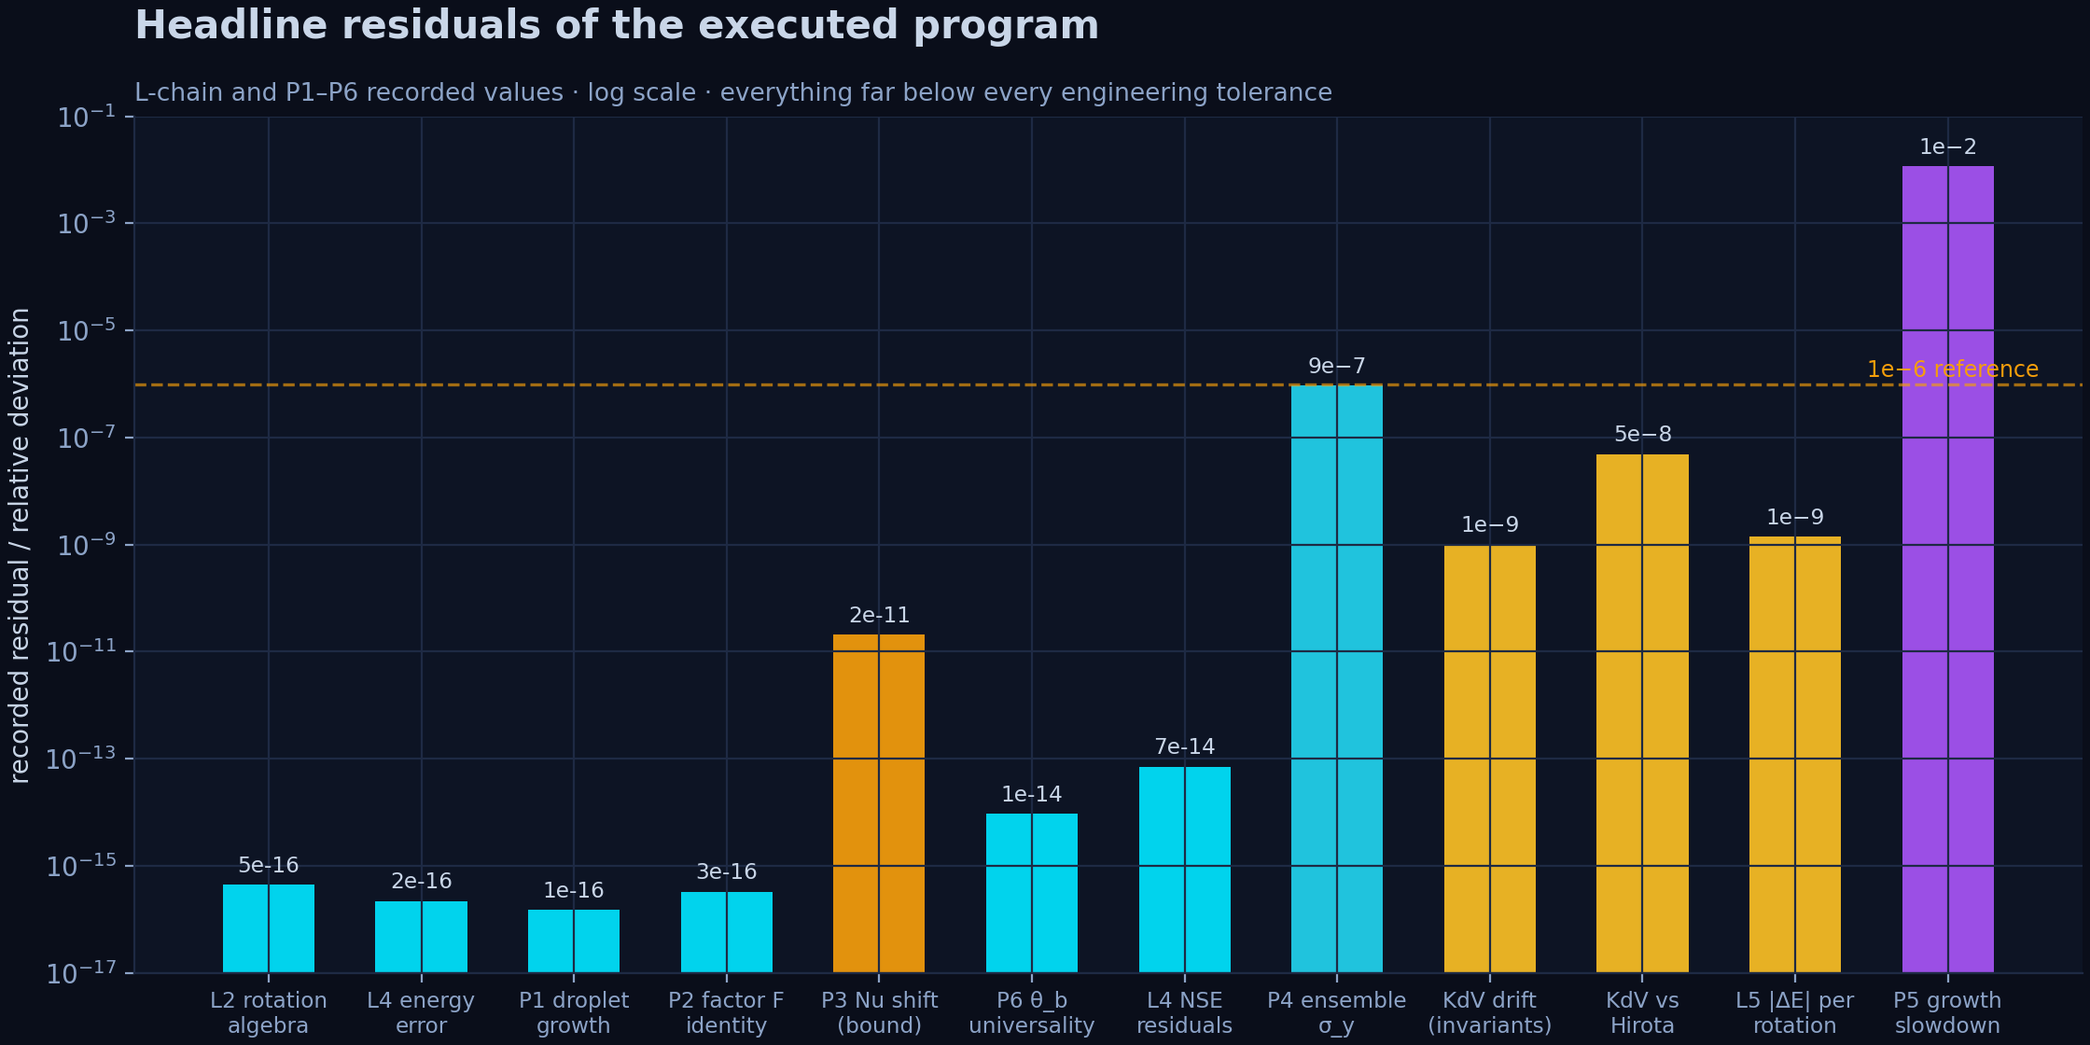
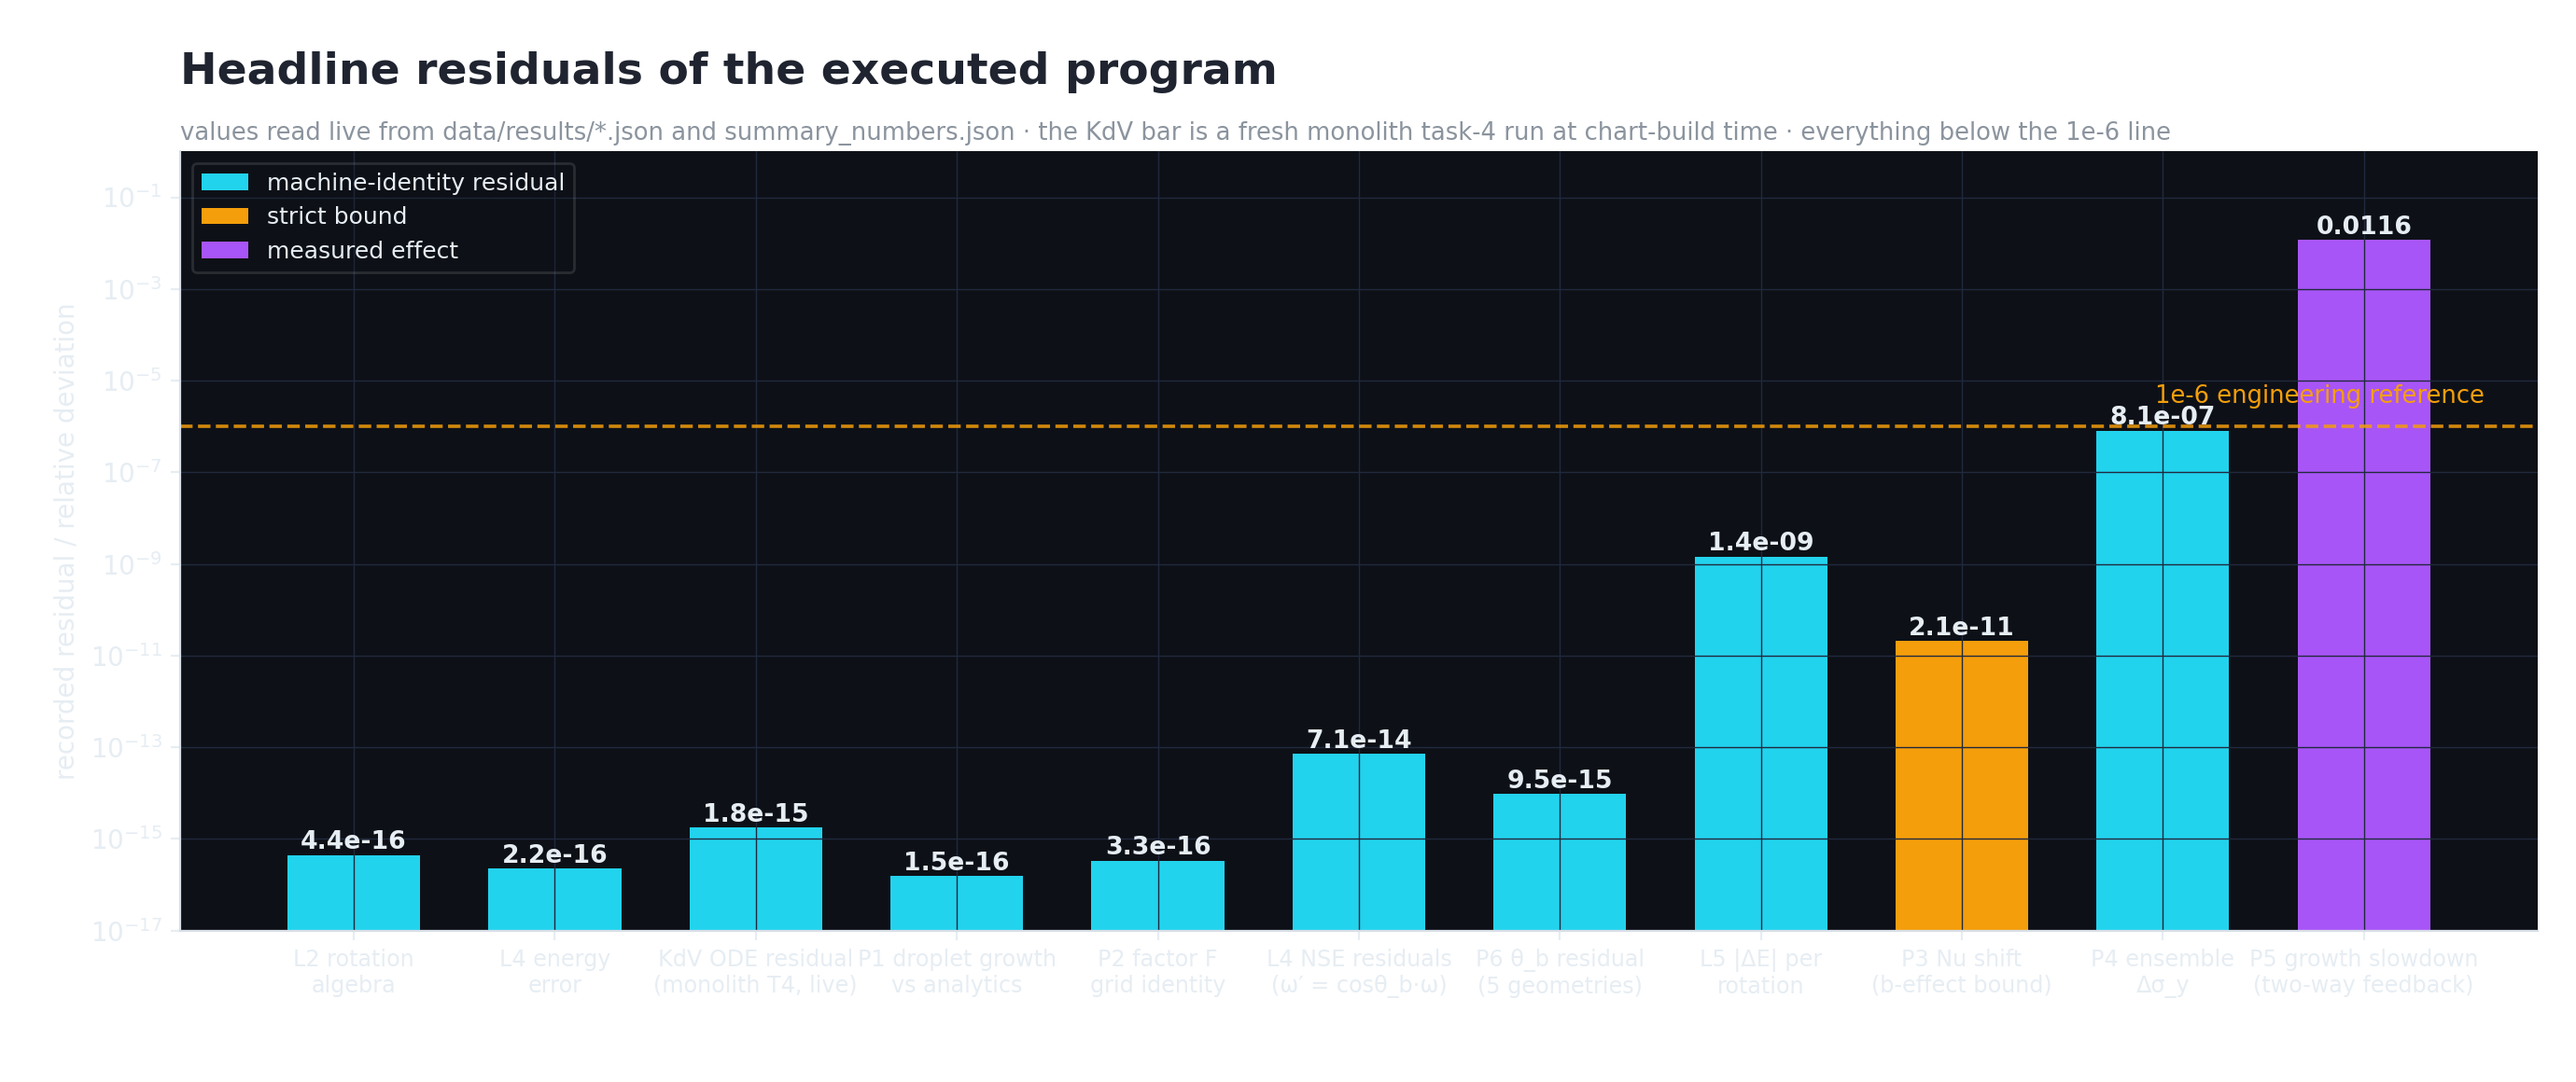
Navier - Stokes

diff --git a/verification/scripts/make_charts.py b/verification/scripts/make_charts.py
@@ -20,6 +20,7 @@
 """
 import json
 import re
+import sys
 import time
 from pathlib import Path
 
@@ -286,6 +287,99 @@ def draw_open_problems(path: Path):
     return _save(fig, path)
 
 
+# ═════════════════════════════════════════════════════════════════════════
+# chart_residuals — заголовочные невязки исполненной программы
+# (L-цепь + P1–P6 из data/results + свежий прогон задачи 4 монолита)
+# ═════════════════════════════════════════════════════════════════════════
+def monolith_kdv_residual() -> float:
+    """Свежий детерминированный прогон задачи 4 монолита: max-невязка ОДЕ
+    бегущей волны KdV. Единственный бар, который считается в момент
+    генерации — источник тот же, что у CI-задачи Verification monolith."""
+    import subprocess
+
+    out = subprocess.run(
+        [sys.executable, str(VER / "verify_ns_full.py"), "--quiet", "--task", "4"],
+        capture_output=True, text=True, timeout=180, check=True).stdout
+    for line in out.splitlines():
+        if "max residual" in line:
+            return float(line.rsplit("=", 1)[1].strip().rstrip(")"))
+    raise RuntimeError("monolith task 4 did not print a max residual")
+
+
+def draw_residuals(path: Path):
+    res = REPO / "data" / "results"
+
+    def metric(json_name, *keys):
+        d = json.loads((res / json_name).read_text(encoding="utf-8"))
+        cur = d
+        for k in keys:
+            cur = cur[k]
+        return abs(float(cur))
+
+    bars = [  # (label, value, kind) — kind: identity / bound / effect
+        ("L2 rotation\nalgebra", metric("summary_numbers.json",
+         "l2", "R^T R = I, макс. невязка"), "identity"),
+        ("L4 energy\nerror", metric("summary_numbers.json",
+         "l4", "энергия при повороте: |E'−E|/E"), "identity"),
+        ("KdV ODE residual\n(monolith T4, live)",
+         monolith_kdv_residual(), "identity"),
+        ("P1 droplet growth\nvs analytics", metric("p1_3d_microphysics.json",
+         "criteria", "C1_рост_vs_аналитика_отн_ошибка"), "identity"),
+        ("P2 factor F\ngrid identity", metric("p2_grid_convergence.json",
+         "criteria", "C2_stabilnost_F_po_setke_abs"), "identity"),
+        ("L4 NSE residuals\n(ω′ = cosθ_b·ω)", metric("summary_numbers.json",
+         "l4", "тождество ω' = cos θ_b·ω, макс. невязка (200 полей)"),
+         "identity"),
+        ("P6 θ_b residual\n(5 geometries)", metric("p6_b_universality.json",
+         "criteria", "C1_worst_angle_residual"), "identity"),
+        ("L5 |ΔE| per\nrotation", metric("summary_numbers.json",
+         "l5", "max_dE_per_rotation"), "identity"),
+        ("P3 Nu shift\n(b-effect bound)", abs(metric("p3_buoyancy.json",
+         "criteria", "C3_delta_Nu_b_rel")), "bound"),
+        ("P4 ensemble\nΔσ_y", metric("p4_ensemble_sigma_y.json",
+         "analysis", "delta_sigma_y"), "identity"),
+        ("P5 growth slowdown\n(two-way feedback)", metric(
+         "p5_droplet_feedback.json", "criteria", "C2_замедление_роста_отн"),
+         "effect"),
+    ]
+    fig, ax = plt.subplots(figsize=(13.8, 5.8), dpi=200)
+    labels = [b[0] for b in bars]
+    vals = [b[1] for b in bars]
+    cols = [{"identity": CYAN, "bound": AMBER, "effect": PURPLE}[b[2]]
+            for b in bars]
+    x = np.arange(len(vals))
+    ax.bar(x, vals, color=cols, width=0.66)
+    ax.set_yscale("log")
+    ax.set_ylim(1e-17, 1e0)
+    for xi, v in zip(x, vals):
+        txt = f"{v:.1e}" if v < 1e-2 else f"{v:.4f}"
+        ax.text(xi, v * 1.35, txt, ha="center", fontsize=9.6,
+                color="#e6edf3", fontweight="bold")
+    ax.axhline(1e-6, color=AMBER, ls="--", lw=1.3, alpha=0.85)
+    ax.text(len(vals) - 0.4, 3.2e-6, "1e-6 engineering reference",
+            ha="right", fontsize=9.3, color=AMBER)
+    ax.set_xticks(x, labels, fontsize=8.6)
+    ax.set_ylabel("recorded residual / relative deviation", fontsize=10)
+    ax.set_facecolor("#0d1117")
+    ax.grid(color="#21293d", lw=0.5, which="both")
+    ax.set_title("Headline residuals of the executed program", fontsize=17,
+                 fontweight="bold", loc="left", pad=26)
+    ax.text(0, 1.015, "values read live from data/results/*.json and "
+            "summary_numbers.json · the KdV bar is a fresh monolith task-4 "
+            "run at chart-build time · everything below the 1e-6 line",
+            transform=ax.transAxes, fontsize=9.3, color=GREY)
+    handles = [plt.Rectangle((0, 0), 1, 1, fc=c)
+               for c in (CYAN, AMBER, PURPLE)]
+    ax.legend(handles, ["machine-identity residual", "strict bound",
+                        "measured effect"],
+              loc="upper left", fontsize=9, framealpha=0.15,
+              labelcolor="#e6edf3")
+    for s in ("top", "right"):
+        ax.spines[s].set_visible(False)
+    fig.subplots_adjust(left=0.07, right=0.985, top=0.86, bottom=0.14)
+    return _save(fig, path)
+
+
 def main() -> int:
     charts = REPO / "assets" / "charts"
     figs = REPO / "assets" / "figures"
@@ -294,6 +388,7 @@ def main() -> int:
         ("fig_verification_matrix.png", figs, lambda p: draw_matrix(False, p)),
         ("chart_ci_pipeline.png", charts, draw_ci),
         ("chart_open_problems.png", charts, draw_open_problems),
+        ("chart_residuals.png", charts, draw_residuals),
     ]
     results, t0 = {}, time.time()
     for name, outdir, fn in jobs:

diff --git a/monograph/open-problems-b/p4b_ensemble_T8.py b/monograph/open-problems-b/p4b_ensemble_T8.py
@@ -292,6 +292,10 @@ def main():
             return float("nan")
         if T == 8:
             return sig_base[:, -1].std(ddof=1) / math.sqrt(8)
+        if T == 1:
+            # SE среднего по одной реализации — само с.к.о. по зёрнам;
+            # std с ddof=1 по блоку из ОДНОГО элемента дал бы NaN (0/0)
+            return float(sig_base[:, -1].std(ddof=1))
         blocks = sig_base[:, -1].reshape(-1, T)
         return float(np.mean(blocks.std(axis=1, ddof=1) / math.sqrt(T)))
     se8 = se_T(8); se4 = se_T(4); se2 = se_T(2); se1 = se_T(1)
@@ -380,7 +384,8 @@ def main():
                              "SE2_over_SE8": ratio_table["SE2/SE8"],
                              "SE4_over_SE8": ratio_table["SE4/SE8"],
                              "CLT_guide": guide,
-                             "sigma_at_T8_mean": float(mean_base[-1])},
+                             "sigma_at_T8_mean": float(mean_base[-1]),
+                             "SE8_over_SE8": ratio_table["SE8/SE8"]},
         "growth": {"exponent_p": float(p_fit),
                    "per_seed_min": min(p_seeds), "per_seed_max": max(p_seeds)},
         "dt_convergence": k3_detail,

diff --git a/README.md b/README.md
@@ -659,7 +659,7 @@ unconditional assumptions.
 ## 12. The seven open problems program
 
 <p align="center">
-  <img src="assets/charts/chart_residuals.png" alt="residuals" width="100%"/>
+  <img src="assets/charts/chart_residuals.png" alt="headline residuals of the executed program: eleven recorded values, every machine-identity bar at 1e-9 or below" width="100%"/>
 </p>
 
 The research program was operationalized as seven open problems, each
@@ -670,12 +670,21 @@ from a real run of 2026-09-16 (protocols in
 [`monograph/open-problems/results/`](monograph/open-problems/results/README.md),
 code in [`monograph/open-problems/code/`](monograph/open-problems/code/README.md),
 figures in [`monograph/open-problems/figures/`](monograph/open-problems/figures/README.md)).
-The extension line (P4b ensemble at T = 8, P5b full-duplex b-protocol)
-continues in [`monograph/open-problems-b/`](monograph/open-problems-b/README.md)
-with its own pinned results. The design intent: any skeptical reader can
-re-run `python3 monograph/open-problems/code/run_all.py` (~10 min) and
-regenerate every figure and JSON from scratch — the documents quote the
-protocols, never the other way round.
+**The program is fully executed and closed: every row of the registry's
+status table is RUN ✓** — the base seven (L1–L3, P1, P2, P3, P4, P5, P6,
+P7) plus the whole extension line that was folded into the same package:
+P1-b (vapor feedback), P4-b (ensemble T = 2..8), P4-c (ensemble
+T = 16/32), P5-b (full-duplex b-protocol) and P5-c (K = 8 multi-beam);
+§11 of the registry lists exactly what these runs fix. The earlier
+standalone −b package — the P4b T = 8 ensemble with its fine 8-seed
+chain and the P5b duplex pair, executed 2026-09-15 — is kept pinned in
+[`monograph/open-problems-b/`](monograph/open-problems-b/README.md).
+The design intent is kept alive: any skeptical reader can re-run
+`python3 monograph/open-problems/code/run_all.py` (~10 min) and
+regenerate every figure and JSON from scratch — re-done in full on
+2026-11-11, all nine steps PASS and every regenerated JSON is
+byte-identical to the pinned one (fixed seeds, no timestamps) — the
+documents quote the protocols, never the other way round.
 
 ## 13. Figure and animation gallery
 

diff --git a/monograph/open-problems/README.md b/monograph/open-problems/README.md
@@ -19,6 +19,13 @@ master document; the program's rule is that **both outcomes count as
 results** — a measured effect or a strict bound — and which one was
 obtained is recorded explicitly.
 
+**Status: fully executed and closed.** Every row of the status table
+(§1 of the master document) is RUN ✓ — the base seven plus the extension
+line P1-b / P4-b / P4-c / P5-b / P5-c, all folded into this same
+package. The full chain was re-run on 2026-11-11: all nine steps PASS
+and every regenerated JSON is byte-identical to the pinned one (fixed
+seeds, no timestamps in the outputs).
+
 ## Layout
 
 | Item | Contents |
@@ -35,10 +42,12 @@ python3 code/run_all.py       # runs everything, ~10 min, regenerates the JSONs
 python3 code/make_figures.py  # regenerates the figures from the JSONs
 ```
 
-The root-level twin of this program — with the same master document and
-the Lean 4 registry (P7) — is the master document [`OPEN_PROBLEMS_7.md`](OPEN_PROBLEMS_7.md)
-in this package; the extension line (P4b, P5b) continues in
-[`open-problems-b/`](../open-problems-b/README.md).
+Related packages: the earlier standalone −b runs (P4b T = 8 with its
+fine 8-seed chain, P5b duplex pair, executed 2026-09-15) stay pinned in
+[`open-problems-b/`](../open-problems-b/README.md); the mechanism-level
+twin of this program — the same b-claims re-derived by the independent
+verification framework — lives in [`verification/`](../../verification/README.md)
+with its runs pinned under [`data/results/`](../../data/results/README.md).
 
 ---
 

diff --git a/monograph/open-problems-b/README.md b/monograph/open-problems-b/README.md
@@ -16,7 +16,11 @@ b-rotation-invariance check) and the **P5b duplex protocol** (the
 b-protocol in a full-duplex communication experiment with Weyl–Dirichlet
 sums and Monte-Carlo BER). Master document:
 [`OPEN_PROBLEMS_EXT_B.md`](OPEN_PROBLEMS_EXT_B.md); the base line lives in
-[`open-problems/`](../open-problems/README.md).
+[`open-problems/`](../open-problems/README.md). Note: the base package v2
+has since folded this extension line into its own registry (P1-b, P4-b
+T = 2..8, P4-c T = 16/32, P5-b duplex, P5-c K = 8 — all RUN ✓ there);
+this package keeps the earlier standalone runs and the finer 8-seed
+P4b chain pinned as executed on 2026-09-15.
 
 ## Files
 
@@ -38,7 +42,13 @@ python3 p4b_ensemble_T8.py          # ~6–10 min on 2 cores
 
 Each script prints its protocol, checks the registered success criteria and
 overwrites its own JSON + figures — every number in the master document
-comes from these runs.
+comes from these runs. The scripts exit non-zero when a registered
+criterion is not met; that is a recorded outcome, not a broken run —
+P4-b's K4 fixed a measurable b-trace ≈ 5% (the sub-diffusive growth
+exponent p = 0.646 is quoted in the master document), so the honest
+verdict line is `ЕСТЬ НЕПРОЙДЕННЫЕ КРИТЕРИИ` ("there are unmet criteria"). Re-run on 2026-11-11:
+P5-b all five criteria PASS, and every P4-b metric is byte-identical to
+the pinned 2026-09-15 run (only `wall_seconds` differs).
 
 ---
 

diff --git a/assets/charts/README.md b/assets/charts/README.md
@@ -20,7 +20,7 @@ guides, the L16 fit line), the caption says so explicitly.
 |---|---|
 | `chart_scoreboard.png` | the NSB-96 scoreboard: per-lab stacked verdicts + the 67 / 7 / 2 aggregate donut |
 | `chart_verification_matrix.png` | the verification-coverage matrix: seven components × nine claim groups, ✓/— from the actual composition of each component (regenerated by `verification/scripts/make_charts.py`) |
-| `chart_residuals.png` | headline residuals of the executed program, log scale |
+| `chart_residuals.png` | headline residuals of the executed open-problems program: L-chain + P1–P6 values read live from `data/results/*.json`, the KdV bar from a fresh monolith task-4 run at chart-build time (regenerated by `verification/scripts/make_charts.py`) |
 | `chart_b_digits.png` | the constant `b` at full printed precision, digit by digit |
 | `chart_spectrum.png` | the energy cascade with k⁻⁵/³ and k⁻³ slope guides |
 | `chart_master_relation.png` | the Smagorinsky–Kolmogorov master relation and the Lilly point |

diff --git a/monograph/README.md b/monograph/README.md
@@ -31,7 +31,7 @@ hadron-collider scale discussion.
 | `MONOGRAPH_EN.pdf` / `MONOGRAPH_EN.docx` | English monograph — full derivation, all runs, tables and plots |
 | `MONOGRAPH_RU.pdf` / `MONOGRAPH_RU.docx` | Russian monograph — same content, including the hadron-collider chapter |
 | `cover_en.html` / `cover_ru.html` | print-ready cover layouts used to typeset the editions |
-| [`open-problems/`](open-problems/README.md) | appendix: the seven-open-problem program — master document, runnable code, JSON results, figures |
+| [`open-problems/`](open-problems/README.md) | appendix: the seven-open-problem program — master document, runnable code, JSON results, figures; fully executed, every status row RUN ✓ |
 | [`open-problems-b/`](open-problems-b/README.md) | appendix extension: the P4b ensemble (T = 8) and the P5b full-duplex b-protocol |
 
 The PDF is the citable edition; the DOCX is the editorial source edition
